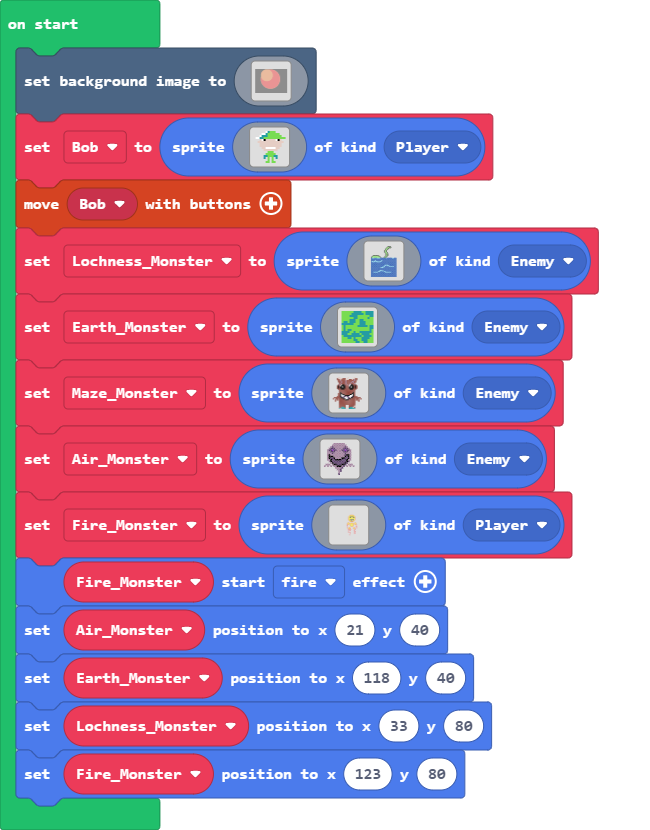
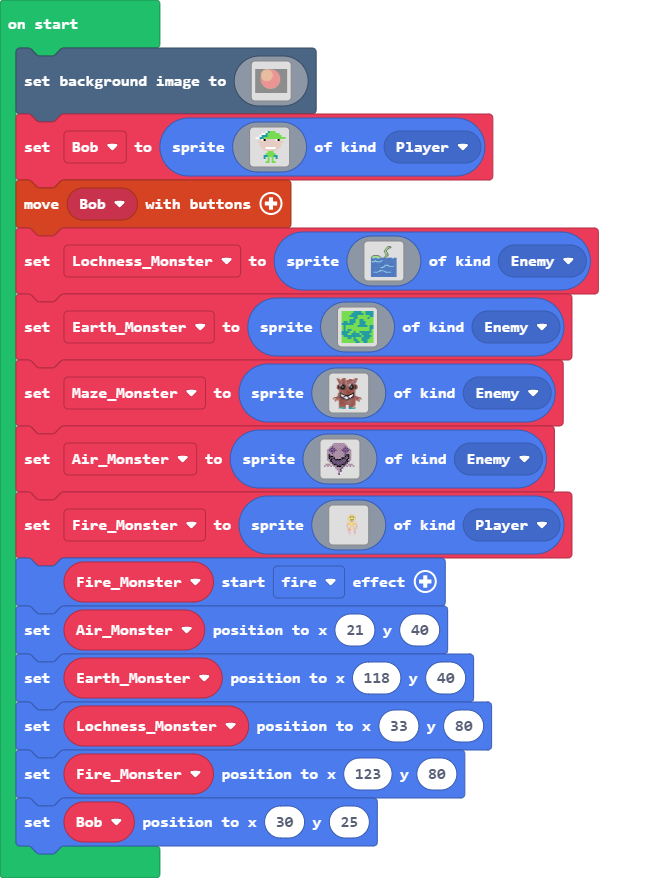
Update main.blocks, main.ts

diff --git a/main.ts b/main.ts
@@ -330,3 +330,4 @@ Air_Monster.setPosition(21, 40)
 Earth_Monster.setPosition(118, 40)
 Lochness_Monster.setPosition(33, 80)
 Fire_Monster.setPosition(123, 80)
+Bob.setPosition(30, 25)
